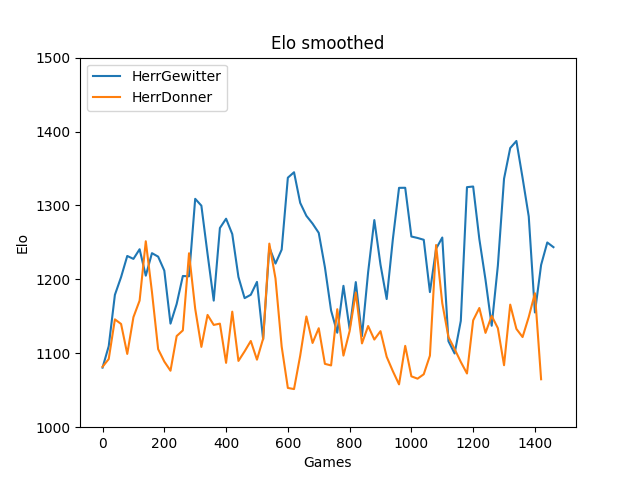
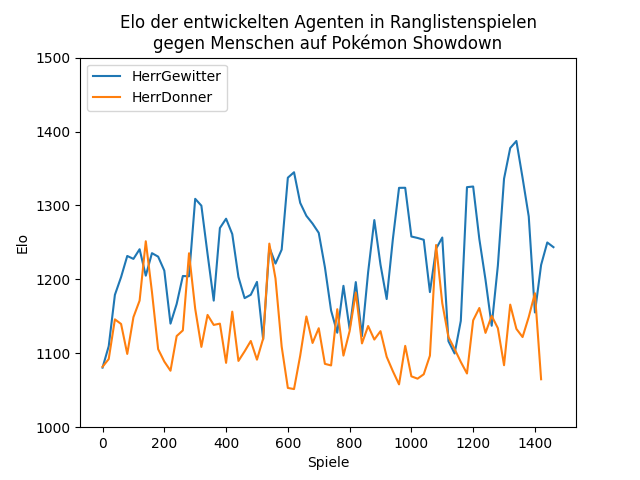
Fixing plots for presentation

Changed region(s): [[0.1875, 0.0312, 0.8438, 0.125], [0.4688, 0.9375, 0.5625, 1.0]]

diff --git a/src/pokemon/bot/evaluation/replay_analyzer.py b/src/pokemon/bot/evaluation/replay_analyzer.py
@@ -8,11 +8,11 @@ from matplotlib import pyplot as plt
 from src.pokemon import logger
 
 REPLAY_LOCATIONS = [
-    ('/home/buckfae/Documents/BachelorThesis/Evaluation/HerrGewitter/HerrGewitterRanked/enhanced_replays', 'McGewitter'),
-    ('/home/buckfae/Documents/BachelorThesis/Evaluation/HerrDonner/HerrDonnerRanked/enhanced_replays', 'McDonner'),
[1 lines of base64/hex data omitted]
-    ('/home/buckfae/Documents/BachelorThesis/Evaluation/HerrDonner/Joni/data/replays_joni', 'HerrDonner1'),
[1 lines of base64/hex data omitted]
+    ('/Users/buckfae/Documents/BachelorThesis/Evaluation/HerrGewitter/HerrGewitterRanked/enhanced_replays', 'McGewitter'),
+    ('/Users/buckfae/Documents/BachelorThesis/Evaluation/HerrDonner/HerrDonnerRanked/enhanced_replays', 'McDonner'),
[1 lines of base64/hex data omitted]
+    ('/Users/buckfae/Documents/BachelorThesis/Evaluation/HerrDonner/Joni/data/replays_joni', 'HerrDonner1'),
[1 lines of base64/hex data omitted]
 ]
 
 def main():
@@ -130,9 +130,9 @@ def main():
 
         plt.plot(*zip(*smoothed_elo), label=f'{bot}')
 
-        plt.title('Elo smoothed')
+        plt.title('Elo der entwickelten Agenten in Ranglistenspielen\ngegen Menschen auf Pokémon Showdown')
         plt.legend(loc='upper left')
-        plt.xlabel('Games')
+        plt.xlabel('Spiele')
         plt.yticks(np.arange(1000, 1600, 100))
         plt.ylabel('Elo')
 

diff --git a/src/pokemon/bot/evaluation/unfair_matches/unfair_matches.py b/src/pokemon/bot/evaluation/unfair_matches/unfair_matches.py
@@ -127,19 +127,20 @@ class Collector:
             total_results[key] = new
 
         ax.bar([t for t in total_results.keys()], [t[0] + t[1] for t in total_results.values()], color='red')
-        ax.set_ylabel("Frequency", color='red')
+        ax.set_ylabel("Häufigkeit", color='red')
         ax.set_xlabel("Board rating")
+        plt.title('Siegesrate der Baseline-Agenten\nfür das berechnete Boardrating.')
 
         ax2 = ax.twinx()
         ratio_data_random = [(key, value[0] / (value[0] + value[1]) * 100) for (key, value) in
                              self.results_random.items()]
         logger.info(f'{ratio_data_random=}')
-        ax2.plot(*zip(*sorted(ratio_data_random)), color='blue', label='Random')
+        ax2.plot(*zip(*sorted(ratio_data_random)), color='blue', label='Random action')
 
         ratio_data_max = [(key, value[0] / (value[0] + value[1]) * 100) for (key, value) in self.results_max.items()]
-        ax2.plot(*zip(*sorted(ratio_data_max)), color='green', label='Max')
+        ax2.plot(*zip(*sorted(ratio_data_max)), color='green', label='Most damaging move')
 
-        ax2.set_ylabel("Win rate in percent", color='green')
+        ax2.set_ylabel("Siegesrate in Prozent")
         plt.savefig('boardrating.png')
         ax2.legend()
         plt.show()
